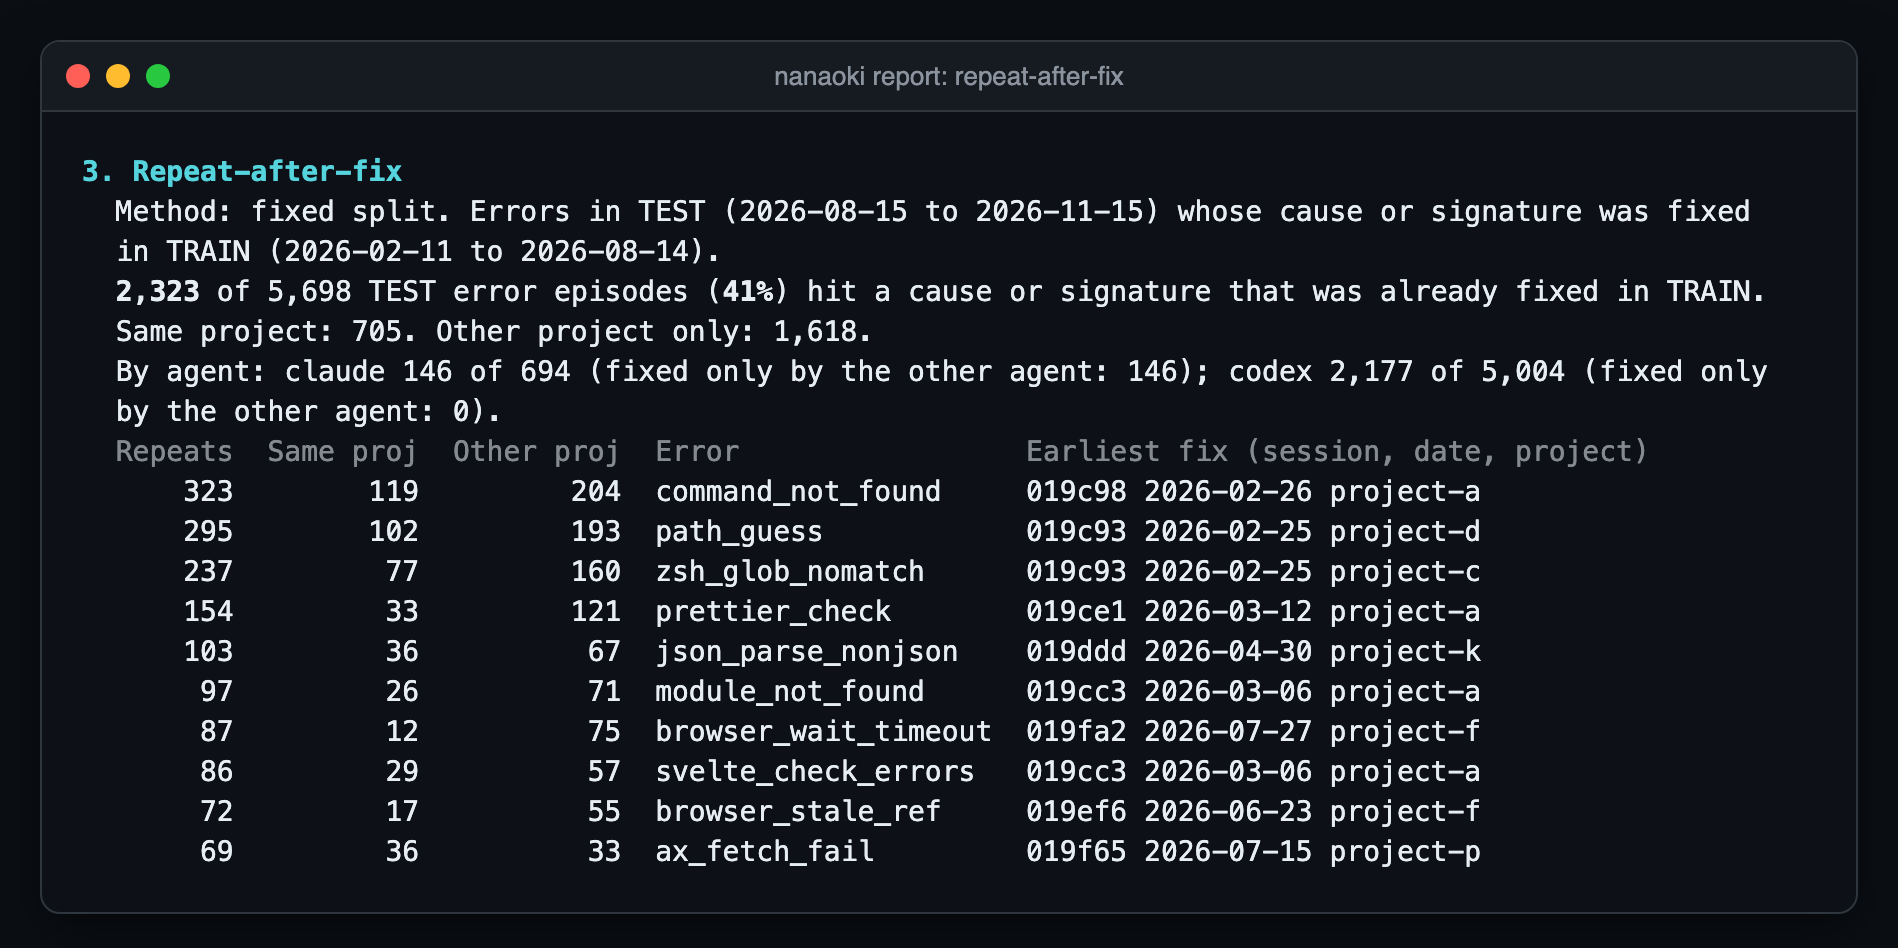
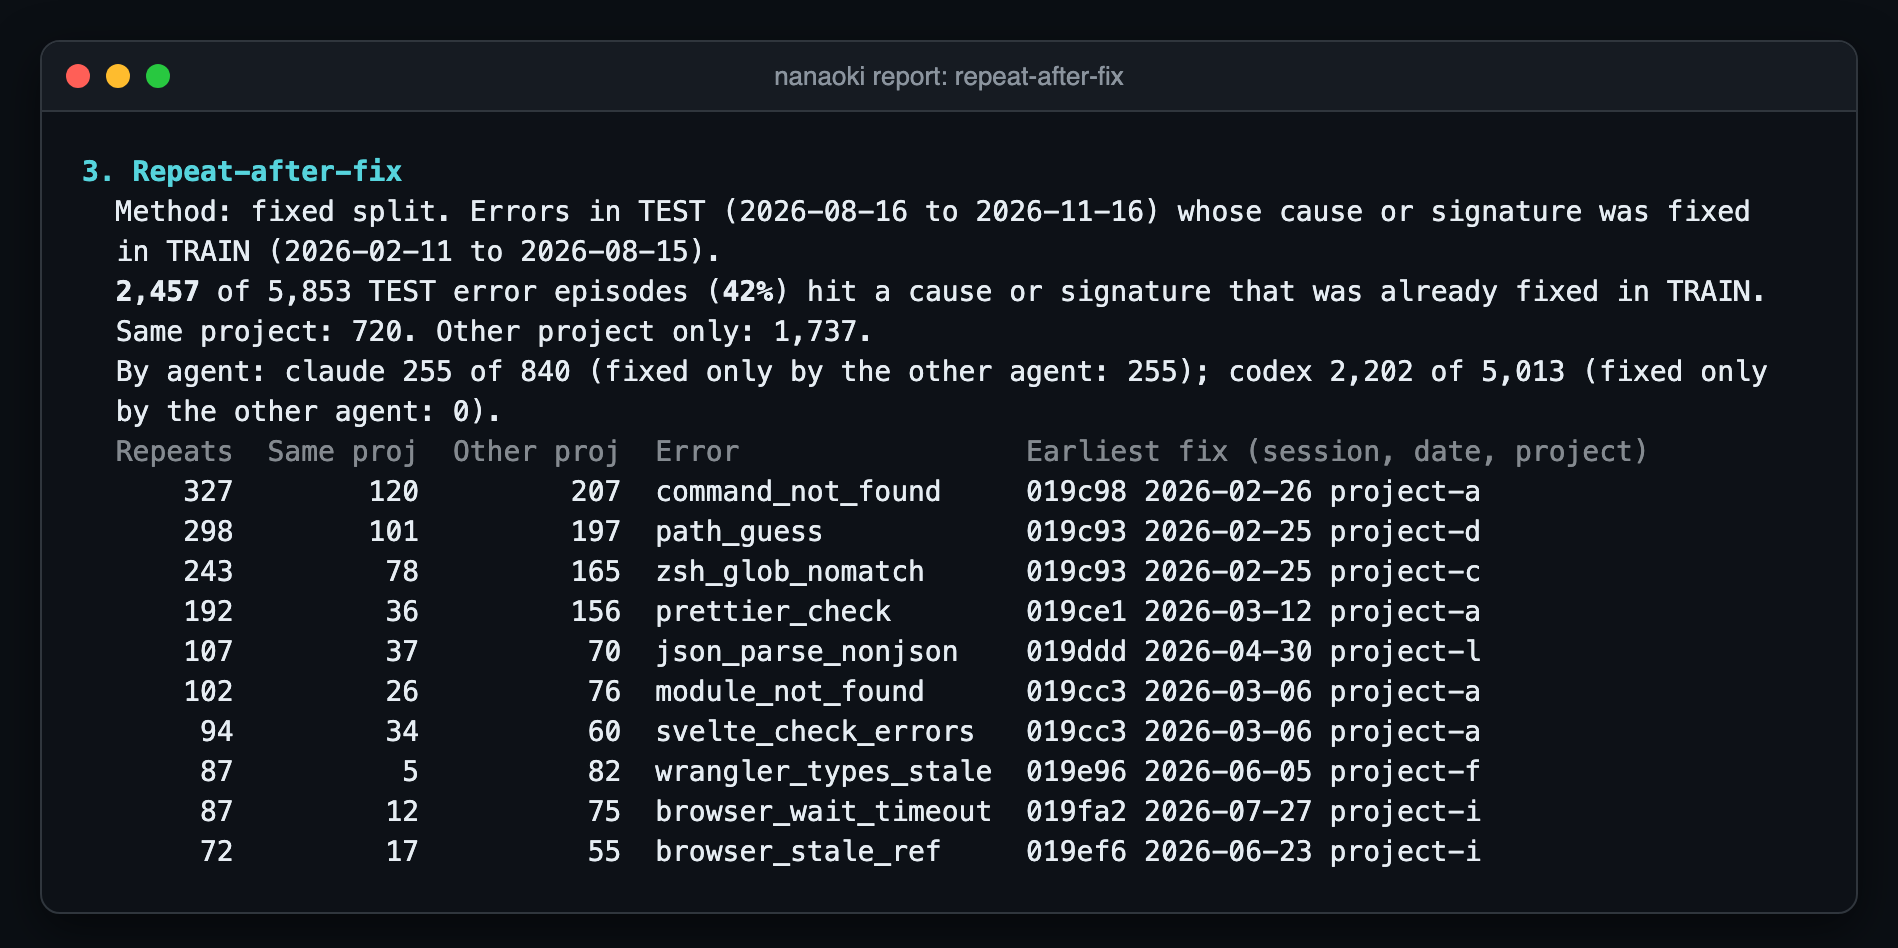
README: new --anon screenshots, guards block; add My number issue template

diff --git a/README.md b/README.md
@@ -17,7 +17,7 @@ Your number, in one command:
 
 ![nanaoki --split auto: repeat-after-fix section](assets/report-raf.png)
 
-Before a command that's known to fail, the agent gets a warning and the fixed command. After a failure, it gets the lesson from the session that fixed it, even if that was in another repo:
+Before a command that's known to fail, the guard stops it and gives the agent the fixed command. After a failure, it gets the lesson from the session that fixed it, even if that was in another repo:
 
 ![The guard and lesson messages that the agent sees](assets/hooks.png)
 
@@ -106,7 +106,7 @@ After that, the plugin refreshes the lessons once a day in the background. See [
 
 What the plugin does:
 
-- Before a few shell commands that are known to fail, it warns and suggests the fixed command. Unquoted zsh globs come first.
+- Before a few shell commands that are known to fail, it blocks the command (or warns, when a block is not safe) and gives the fixed command. Unquoted zsh globs come first.
 - After a failed command, it shows up to 3 lessons from your history that match the error, with where each one was fixed.
 - At the first prompt of a session, it shows 1-2 rules that match the repo.
 - It stays quiet on probes (`cat x 2>/dev/null`, `test -f`, a grep with no match).
